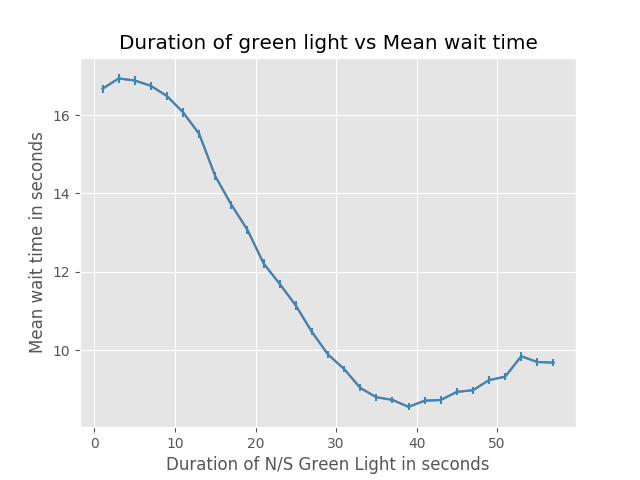
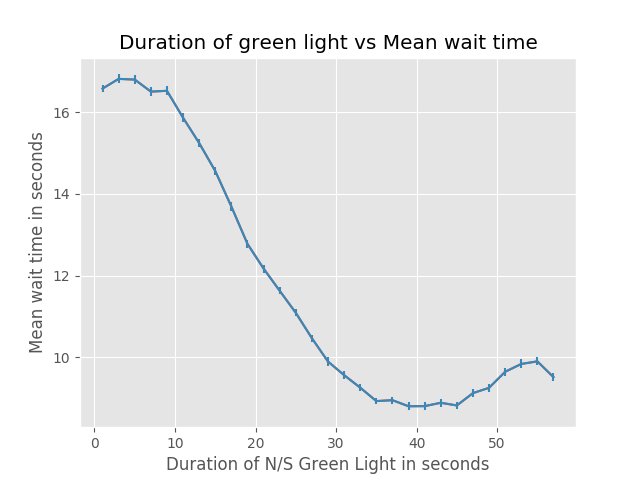
added inline comments and updated some documentation

diff --git a/stoplight.py b/stoplight.py
@@ -8,67 +8,90 @@ import matplotlib.pyplot as plt
 
 def arrive(queue, direction):
     """
-    A function to update the queue when a car arrives and joins a queue in the particular direction.
-    For the NS queue the cars arrive at a shorter time compared to the EW queue.
-    :param queue: Queue input takes the values N/S/E/W
-    :param direction: Direction takes the values N ,S, E, W
-    :param light: Red or green
+    A function to randomly generate when cars arrive from a uniform distribution, and
+    update the queue when a car arrives and joins a queue in the particular direction.
+    For the NS queues the cars arrive at a shorter time compared to the EW queues, simulating a busier NS road.
+    :param queue: Queue input takes the values N_Queue, S_Queue, E_Queue, W_Queue
+    :param direction: Direction the queue is traveling: takes the values N ,S, E, W
     :return:
     """
     global arrive_count
     global NS_light, EW_light
 
     while True:
+        # instantiate the light variable based on the queue direction and the current status of that light
         if direction == 'N' or direction == 'S':
             light = NS_light
         else:
             light = EW_light
 
+        # this is the position of the car in the queue
         arrive_count += 1
+        # add the car to the total count
         Stats['car_count'] += 1
 
+        # if the light is red, or there are cars ahead of this one in the queue, add this car's position
+        # and arrival time to the end of the queue
         if light == 'red' or queue.qsize() > 0:
             queue.put((arrive_count, env.now))
+            # print statement to show the status of the car joining the queue
             if print_sim: print("Car #{arrive_count} arrived and joined the {direction} queue at position {length} " 
                                 "at time {time: .3f}.".format(arrive_count=arrive_count, direction=direction, length=queue.qsize(), time=env.now))
+        # if the light is green, and there are no cars ahead of this one in the queue,
+        # the car passes and is not added to the queue
         else:
+            # print statement to show that a car entered the simulation and
+            # passed through a green light without being added to a queue
             if print_sim: print("Car #{arrive_count} passed through a green light going {direction} with no cars waiting "
                                 "at time {time: .3f}.".format(arrive_count=arrive_count, direction=direction, time=env.now))
 
+        # if the car is on the North or South road, delay the arrival for the next car
+        # for a random time taken from a uniform distribution with a smaller range
         if direction == 'N' or direction == 'S':
             next_arrival = random.uniform(1, 30)
+        # if the car is on the East or West road, delay the arrival for the next car
+        # for a random time taken from a uniform distribution with a larger range
         else:
-            next_arrival = random.uniform(5, 60)
+            next_arrival = random.uniform(3, 60)
         yield env.timeout(next_arrival)
 
 
 def depart(queue, direction, light):
     """
-    A function to keep track of the cars which depart from a particular queue and it also updates the max wait time.
+    A function to keep track of the cars which depart from a particular queue.  It calculates how long
+    each car took to get through the intersection, and updates the total and max wait times for the simulation.
     :param queue: N_Queue, S_Queue, E_Queue, W_Queue
-    :param direction: N/S/E/W
-    :param light: Red or Green
+    :param direction: Which direction the queue is traveling: N/S/E/W
+    :param light: Red or Green light status for the queue passed
     :return:
     """
     global cur_max_wait
-
     clear_delay = 3
 
     while True:
+        # if the light is red, or there are no cars in the queue, do not start the departure process
         if light == 'red' or queue.qsize() == 0:
             return
+        # if the light is green, and there are cars in the queue, start releasing the cars
         else:
+            # each departing car takes a constant value of 3 seconds to clear the intersection
             yield env.timeout(clear_delay)
+            # remove the first car from the queue, and store its position and arrival time
             car_position, time_arrived = queue.get()
+            # calculate the time the car took to get through the intersection after arrival
             time_waiting = env.now - time_arrived
 
+            # print statement to show the status of the departing cars and the queue after departure
             if print_sim: print("Car #{arrive_count} departed at time {time: .3f}, after waiting {time_waiting: .3f}, leaving {length} cars in the "
                                 "{direction} queue.".format(arrive_count=car_position, time=env.now, time_waiting=time_waiting, length=queue.qsize(), direction=direction))
 
+            # if the time the car spent in the intersection is larger
+            # than the current max time, set this time as the new max
             if time_waiting > cur_max_wait:
                 cur_max_wait = time_waiting
                 Stats['max_wait_time'] = cur_max_wait
 
+            # update the values for the count of cars who waited in a queue, and the amount of time they waited
             Stats['cars_waiting'] += 1
             Stats['waiting_time'] += time_waiting
 
@@ -84,41 +107,48 @@ def light_status(direction, queue, red_time, green_time):
     keeps track of the red light duration and green light duration.
     :param direction:N/S/E/W
     :param queue:N_Queue, S_Queue, E_Queue, W_Queue
-    :param red_time: duration of red light
-    :param green_time: duration of green light
+    :param red_time: duration of the red light for the NS queues
+    :param green_time: duration of the green light for the NS queues
     :return:
     """
 
     global NS_light, EW_light
 
     while True:
+        # NS light always starts green
         NS_light = 'green'
         EW_light = 'red'
 
+        # if there are cars in the North or South queue, start the depart process for the queue
         if (direction == 'N' or direction == 'S') and queue.qsize() > 0:
             env.process(depart(queue=queue, direction=direction, light=NS_light))
 
+        # print statements to show when the NS light changes
         if direction == 'N' or direction == 'S':
             if print_sim: print('\nThe {direction} light turned green at time {time: .3f}.'.format(direction=direction, time=env.now))
         else:
             if print_sim: print('\nThe {direction} light turned red at time {time: .3f}.'.format(direction=direction, time=env.now))
 
+        # the NS light stays green for the amount of the green_time parameter
         yield env.timeout(green_time)
         Stats['green_count'] += 1
         Stats['green_time'] += green_time
 
+        # light changes status
         NS_light = 'red'
         EW_light = 'green'
 
+        # if there are cars in the East or West queue, start the depart process for the queue
         if (direction == 'E' or direction == 'W') and queue.qsize() > 0:
             env.process(depart(queue=queue, direction=direction, light=EW_light))
 
+        # print statements to show when the EW light changes
         if direction == 'W' or direction == 'E':
             if print_sim: print('\nThe {direction} light turned green at time {time: .3f}.'.format(direction=direction, time=env.now))
         else:
             if print_sim: print('\nThe {direction} light turned red at time {time: .3f}.'.format(direction=direction, time=env.now))
 
-
+        # the NS light stays red for the amount of the red_time parameter
         yield env.timeout(red_time)
         Stats['red_count'] += 1
         Stats['red_time'] += red_time
@@ -126,8 +156,9 @@ def light_status(direction, queue, red_time, green_time):
 
 def run_sim(NS_green_time, total_time):
     """
-    A function which instantiates the process and it runs till the total_time
-    :param NS_green_time: Green light duration which is passed from the for loop.
+    A function which instantiates the process and it runs till the total_time. The simulation always starts
+    with a green NS light and red EW light. The red light time is always one minute minus the green light time.
+    :param NS_green_time: The North/South green light duration which is passed from the for loop.
     :param total_time: A predefined duration in seconds. 600 seconds
     :return:
     """
@@ -161,10 +192,10 @@ def run_sim(NS_green_time, total_time):
 def visualize_data(x, y, yerr, metric):
     """
     A function for visualizating the plot
-    :param x: An array plotted on the y-axis which contains all the greentimes during the entire duration of the simulation
+    :param x: An array plotted on the y-axis which contains all the green times during the entire duration of the simulation
     :param y: An array plotted on the x-axis which contains an average of the max or mean times in seconds that it takes
     for a car to get through the intersection for the entire duration of the simulation
-    :param yerr:
+    :param yerr: The standard error around the sample mean or max (sample standard deviation / sqrt(sample size n))
     :param metric: The metric to be plotted and labeled (max or mean)
     :return:
     """
@@ -178,32 +209,44 @@ def visualize_data(x, y, yerr, metric):
     plt.savefig('./{}_plot.png'.format(metric))
     plt.show()
 
+
 if __name__ == '__main__':
     start = time.time()
+    # instantiate collector variables to compute summary stats
     green_times = []
     sample_means = []
     sample_maxs = []
     std_error_means = []
     std_error_maxs = []
+    # to see print statements for each car, set this variable to True
     print_sim = False
+    # set the sample size n for each green_time parameter
     n = 100
     print('N =', n)
+    # iterate over increasing green_time parameter values between 1 and 59 seconds
+    # (red light time values are always 60 seconds - green_time value)
     for green_time in range(1,59,2):
+        # instantiate mean and max collectors for each parameter value
         means = []
         maxs = []
+        # run n simulations for each parameter value
         for i in range(n):
+            # reset the environment
             env = simpy.Environment()
 
+            # reset the starting variables
             NS_light = 'green'
             EW_light = 'red'
             cur_max_wait = 0
             arrive_count = 0
 
+            # reset the queues
             N_queue = Queue()
             S_queue = Queue()
             E_queue = Queue()
             W_queue = Queue()
 
+            # reset the simulation stats dictionary
             Stats = dict()
             Stats['cars_waiting'] = 0
             Stats['car_count'] = 0
@@ -214,17 +257,25 @@ if __name__ == '__main__':
             Stats['green_time'] = 0.0
             Stats['green_count'] = 0
 
-            # run each process for 10 minutes
+            # run each simulation process for 10 minutes
             run_sim(NS_green_time=green_time, total_time=600)
 
+            # compute and store the average time to clear the intersection for this simulation
             means.append(Stats['waiting_time'] / float(Stats['car_count']))
+            # compute and store the max time to clear the intersection for this simulation
             maxs.append(Stats['max_wait_time'])
 
+        # compute the average of all the means for this green time parameter
         sample_mean = np.mean(means)
+        # compute the standard error of the mean for this green time parameter
         std_error_mean = np.std(means) / np.sqrt(n)
+        # compute the average of all the max times for this green time parameter
         sample_max = np.mean(maxs)
+        # compute the standard error of the max for this green time parameter
         std_error_max = np.std(maxs) / np.sqrt(n)
 
+        # collect the sample means, sample maxs, and their standard error
+        # to plot against each green time parameter
         sample_means.append(sample_mean)
         std_error_means.append(std_error_mean)
         sample_maxs.append(sample_max)
@@ -233,5 +284,6 @@ if __name__ == '__main__':
 
     print('Process took', time.time() - start, 'seconds')
 
+    # plots of the max and mean against the green time parameters are shown and saved in the working directory
     visualize_data(x=green_times, y=sample_maxs, yerr=std_error_maxs, metric='Max')
     visualize_data(x=green_times, y=sample_means, yerr=std_error_means, metric='Mean')

diff --git a/README.md b/README.md
@@ -35,7 +35,7 @@ Do you think it's a good representation of reality?
 
 To simulate the stoplight scenario, we will have 4 queue data structures running North/South, East/West.
 We will have 4 continous random variables for the time intervals between when the cars arrive at each queue. These will all be drawn from a uniform probability distribution, with various ranges.
-We also want to simulate that one of the roads is busier than the other, since this is often true in reality. To do this, the North & South queue time intervals could be drawn from a uniform distribution between 2 seconds and 30 seconds, while the East and West queue intervals could range from 2 seconds to 3 minutes.
+We also want to simulate that one of the roads is busier than the other, since this is often true in reality. To do this, the North & South queue time intervals could be drawn from a uniform distribution between 1 seconds and 30 seconds, while the East and West queue intervals could range from 3 seconds to 1 minute.
 
 In addition to car arrival times, each queue will have a discrete random variable for which direction the car goes at the light from 3 choices: straight, left, or right. To start we may use random.choice() and use the default uniform probability distribution to identify which direction the car will go. However, it is probably more likely cars on the busier road will go straight than turn onto the less busy road, and we could weight the probabilities to reflect that.
 
@@ -52,4 +52,8 @@ The program would calculate the average waiting time for a particular car in dif
 1.) A traffic simulator in C++ for reference:
   <http://www.dreamincode.net/forums/topic/343059-traffic-light-simulation/>
   
-2.) https://people.sc.fsu.edu/~jburkardt/classes/isc_2009/monte_carlo_simulation.pdf 
+2.) https://people.sc.fsu.edu/~jburkardt/classes/isc_2009/monte_carlo_simulation.pdf
+
+3.) Example using SimPy: http://phillipmfeldman.org/Python/discrete_event_simulation/traffic_sim.py
+
+4.) [SimPy documentation] (https://simpy.readthedocs.io/en/latest/simpy_intro/basic_concepts.html)
